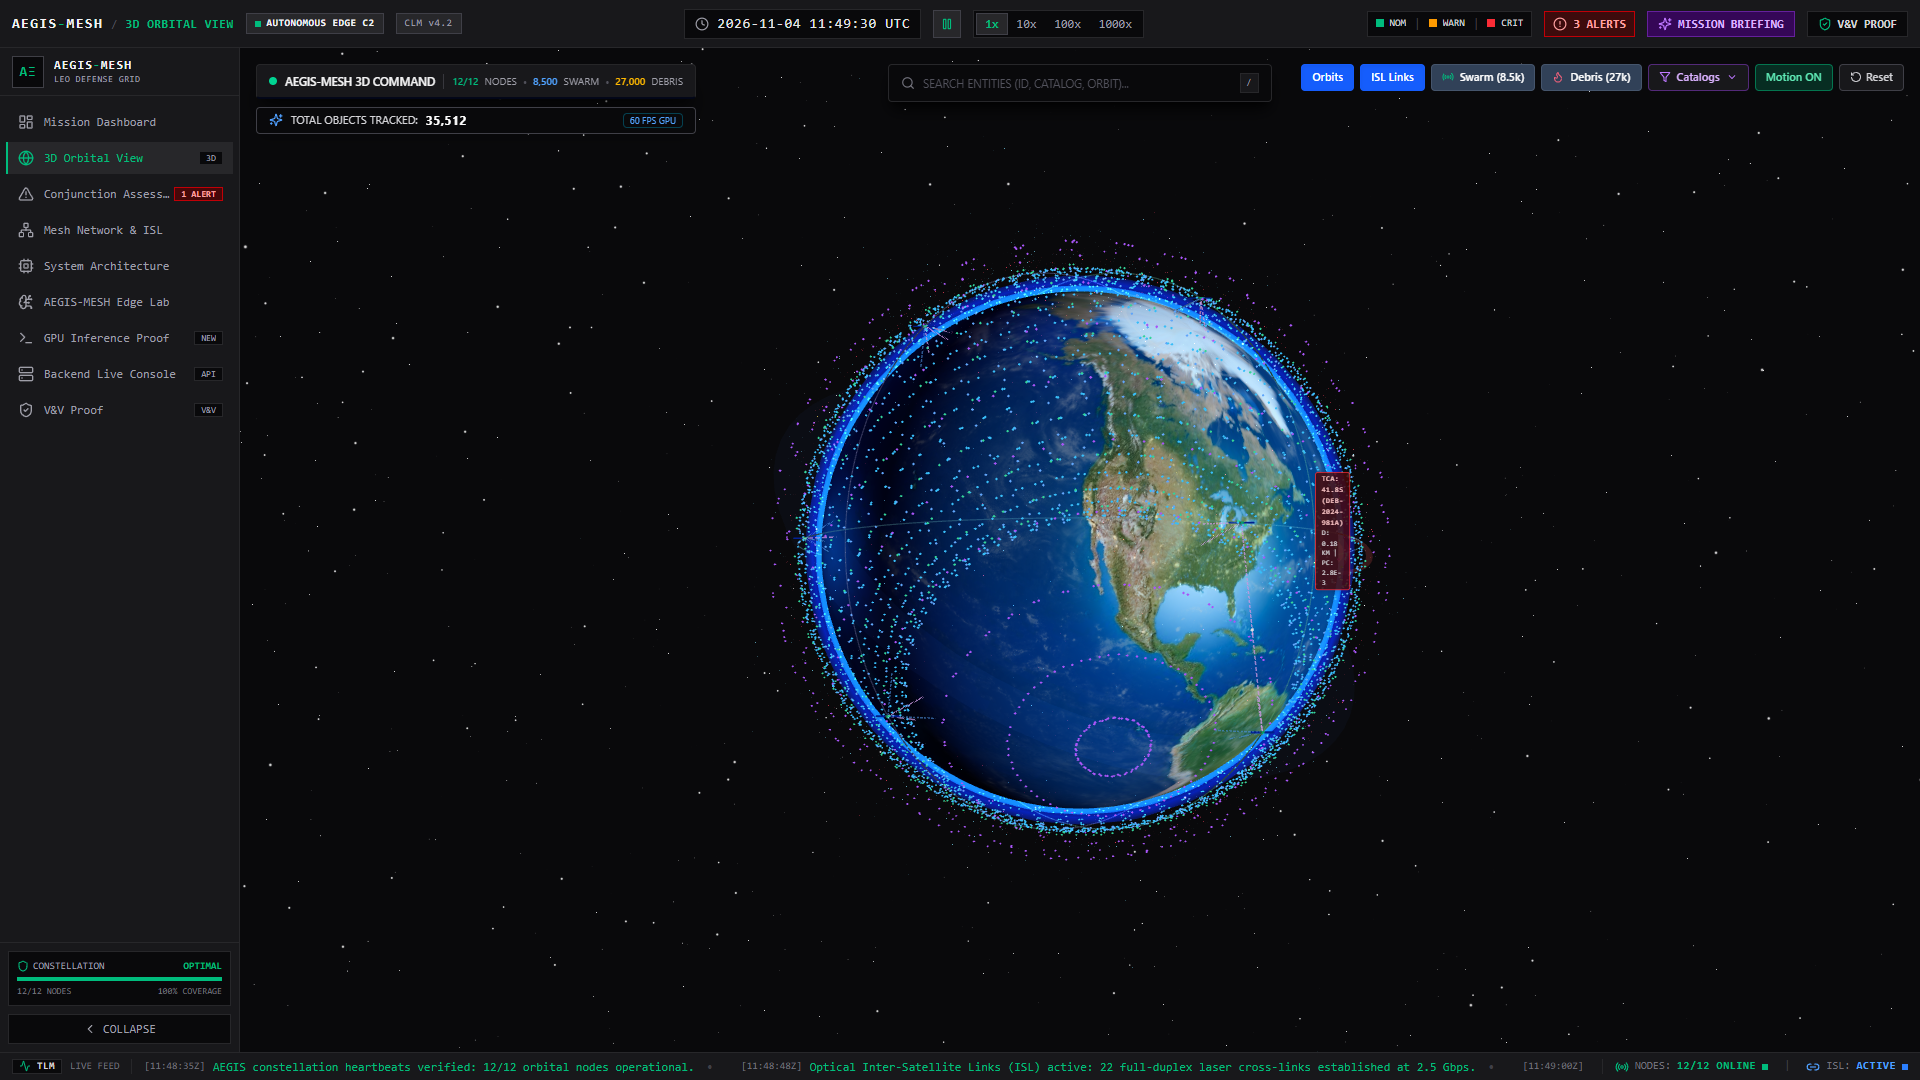
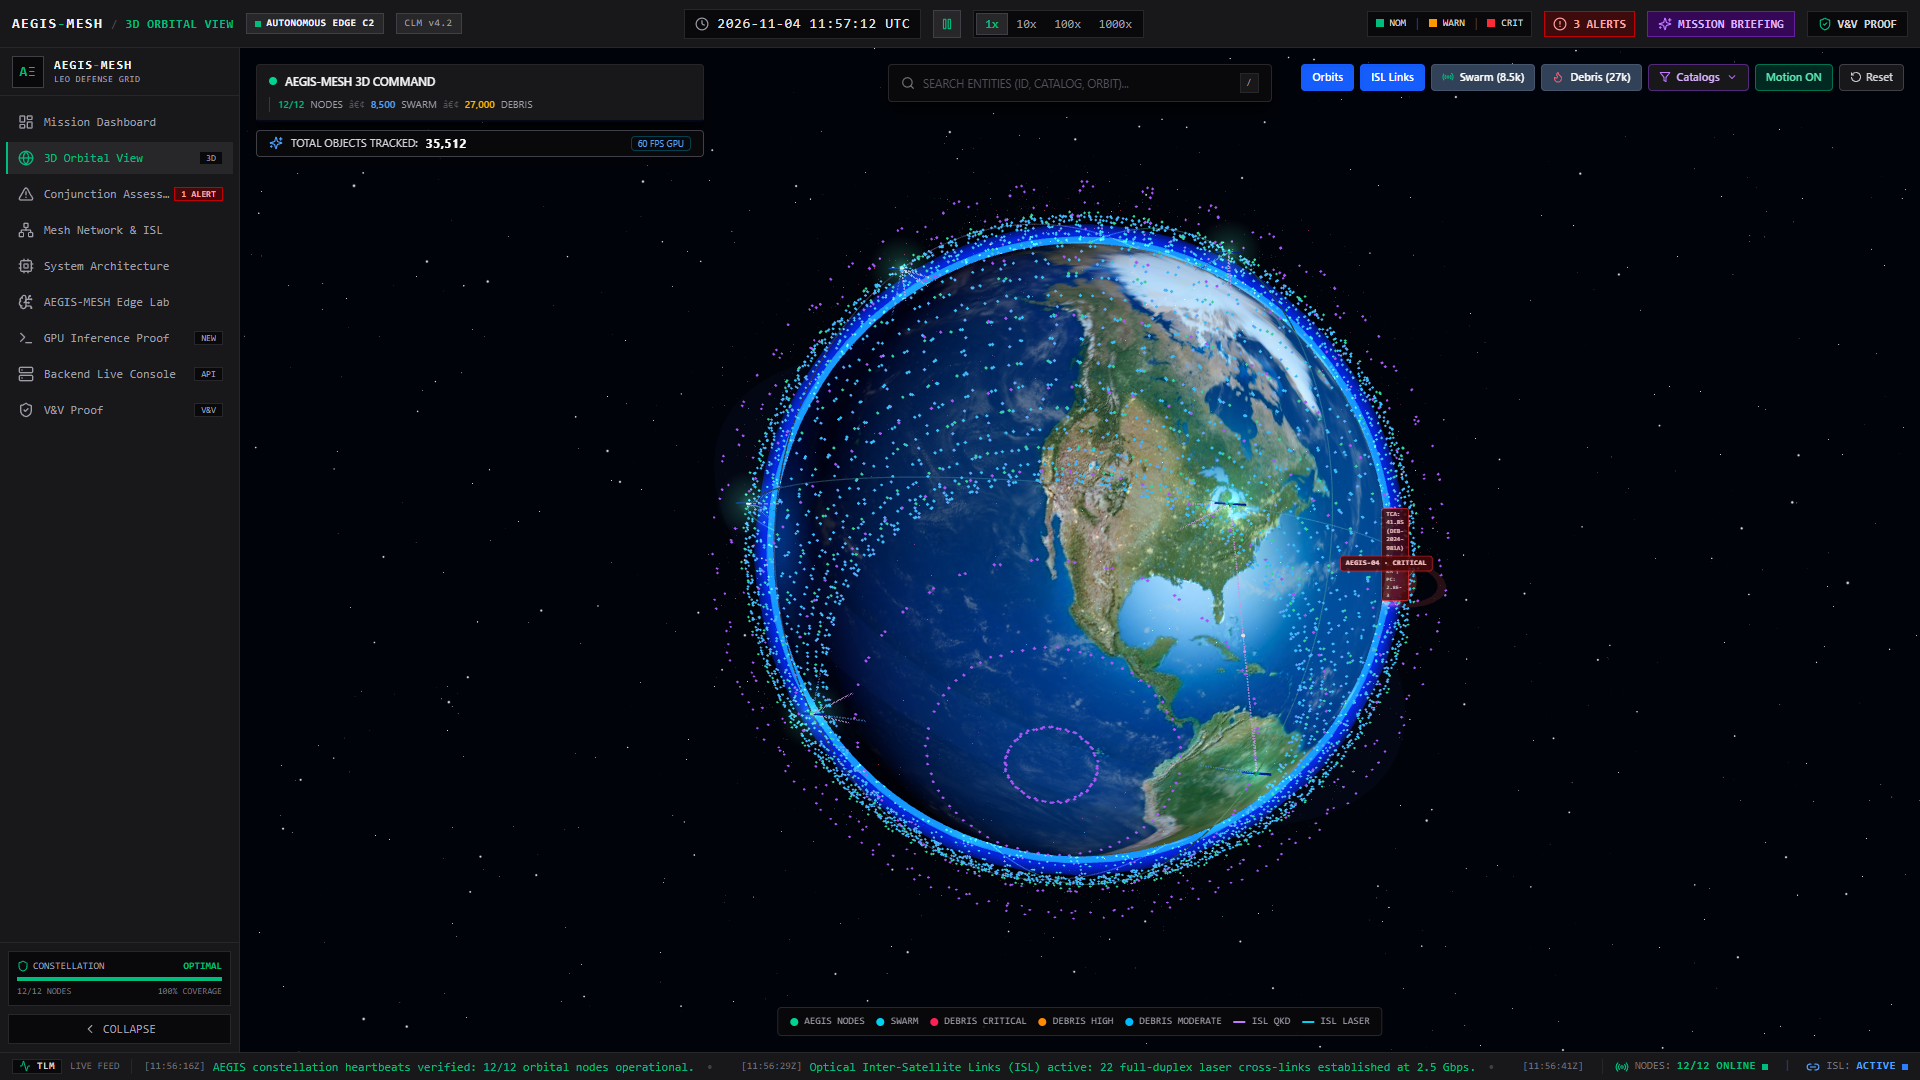
Polish 3D orbital view: node halos, sun glow, cinematic camera, legend

diff --git a/src/components/three/OrbitalScene.tsx b/src/components/three/OrbitalScene.tsx
@@ -1,6 +1,7 @@
 import React, { useMemo, useState, useRef, useCallback } from 'react';
 import { Canvas, useFrame } from '@react-three/fiber';
 import { OrbitControls, Stars } from '@react-three/drei';
+import * as THREE from 'three';
 import type { OrbitControls as OrbitControlsImpl } from 'three-stdlib';
 import {
   Layers,
@@ -129,7 +130,7 @@ const DEBRIS_CATALOG_OPTIONS = [
     count: 3,
     color: '#f97316',
     dangerLevel: 'HIGH',
-    alt: '485 km (82.6°)',
+    alt: '485 km (82.6Â°)',
   },
   {
     id: 'fengyun-1c',
@@ -137,7 +138,7 @@ const DEBRIS_CATALOG_OPTIONS = [
     count: 1984,
     color: '#ff3355',
     dangerLevel: 'CRITICAL',
-    alt: '865 km (98.6°)',
+    alt: '865 km (98.6Â°)',
   },
   {
     id: 'iridium-33',
@@ -145,7 +146,7 @@ const DEBRIS_CATALOG_OPTIONS = [
     count: 110,
     color: '#fbbf24',
     dangerLevel: 'HIGH',
-    alt: '790 km (86.4°)',
+    alt: '790 km (86.4Â°)',
   },
   {
     id: 'cosmos-2251',
@@ -153,7 +154,7 @@ const DEBRIS_CATALOG_OPTIONS = [
     count: 586,
     color: '#fb923c',
     dangerLevel: 'HIGH',
-    alt: '790 km (74.0°)',
+    alt: '790 km (74.0Â°)',
   },
   {
     id: 'sl-16',
@@ -161,7 +162,7 @@ const DEBRIS_CATALOG_OPTIONS = [
     count: 294,
     color: '#d946ef',
     dangerLevel: 'ELEVATED',
-    alt: '600-950 km (71.0°)',
+    alt: '600-950 km (71.0Â°)',
   },
   {
     id: 'leo-general',
@@ -172,6 +173,44 @@ const DEBRIS_CATALOG_OPTIONS = [
     alt: '350-1400 km',
   },
 ];
+
+function createSunGlowTexture(): THREE.Texture | null {
+  if (typeof document === 'undefined') return null;
+  const canvas = document.createElement('canvas');
+  canvas.width = 128;
+  canvas.height = 128;
+  const ctx = canvas.getContext('2d');
+  if (!ctx) return null;
+  const g = ctx.createRadialGradient(64, 64, 0, 64, 64, 64);
+  g.addColorStop(0, 'rgba(255, 244, 214, 1)');
+  g.addColorStop(0.25, 'rgba(255, 224, 168, 0.55)');
+  g.addColorStop(0.6, 'rgba(255, 196, 110, 0.16)');
+  g.addColorStop(1, 'rgba(255, 180, 90, 0)');
+  ctx.fillStyle = g;
+  ctx.fillRect(0, 0, 128, 128);
+  const tex = new THREE.CanvasTexture(canvas);
+  tex.colorSpace = THREE.SRGBColorSpace;
+  tex.generateMipmaps = false;
+  tex.minFilter = THREE.LinearFilter;
+  return tex;
+}
+
+const SunGlow: React.FC = () => {
+  const tex = useMemo(() => createSunGlowTexture(), []);
+  if (!tex) return null;
+  return (
+    <sprite position={[88, 40, 68]} scale={[54, 54, 1]}>
+      <spriteMaterial
+        map={tex}
+        color="#ffe9c4"
+        transparent
+        opacity={0.5}
+        blending={THREE.AdditiveBlending}
+        depthWrite={false}
+      />
+    </sprite>
+  );
+};
 
 // Inner 3D Scene executing useFrame and rendering all orbital assets
 const SceneContent: React.FC<{
@@ -334,6 +373,7 @@ const SceneContent: React.FC<{
     <>
       {/* Central Realistic Earth */}
       <Earth />
+      <SunGlow />
 
       {/* Unique Orbital Plane Tracks */}
       {showOrbits &&
@@ -353,6 +393,8 @@ const SceneContent: React.FC<{
       {/* Upgraded 20,000+ Particle Debris Field with dynamic catalog filtering */}
       <DebrisField
         activeCatalogs={activeCatalogs}
+        pointSize={0.048}
+        opacity={0.62}
         isPropagating={isPropagating}
         visible={showDebris}
         onParticleHover={onParticleHover}
@@ -396,6 +438,7 @@ const SceneContent: React.FC<{
             status={sat.status}
             position={pos}
             isSelected={isSel}
+            showLabel={sat.id === 'AEGIS-04'}
             orbitalElements={sat.elements}
             hardware={sat.hardware}
             health={sat.health}
@@ -444,6 +487,7 @@ export const OrbitalScene: React.FC<OrbitalSceneProps> = ({
   const [showSwarm, setShowSwarm] = useState(true);
   const [showLinks, setShowLinks] = useState(true);
   const [isPropagating, setIsPropagating] = useState(true);
+  const [autoRotate, setAutoRotate] = useState(true);
   const [isCatalogMenuOpen, setIsCatalogMenuOpen] = useState(false);
   const [debrisSearchQuery, setDebrisSearchQuery] = useState('');
 
@@ -520,6 +564,7 @@ export const OrbitalScene: React.FC<OrbitalSceneProps> = ({
   const handleResetCamera = useCallback(() => {
     if (controlsRef.current) {
       controlsRef.current.reset();
+      setAutoRotate(true);
     }
   }, []);
 
@@ -539,12 +584,12 @@ export const OrbitalScene: React.FC<OrbitalSceneProps> = ({
 
           <div className="flex items-center gap-1.5 border-l border-zinc-700/80 pl-2 text-[10px] font-sans text-zinc-400">
             <span className="text-emerald-500 font-semibold">12/12</span> NODES
-            <span className="text-zinc-600">•</span>
+            <span className="text-zinc-600">â€¢</span>
             <span className="text-blue-400 font-semibold">
               {objectMetrics.swarmCount.toLocaleString()}
             </span>{' '}
             SWARM
-            <span className="text-zinc-600">•</span>
+            <span className="text-zinc-600">â€¢</span>
             <span className="text-amber-400 font-semibold">
               {objectMetrics.debrisCount.toLocaleString()}
             </span>{' '}
@@ -781,7 +826,7 @@ export const OrbitalScene: React.FC<OrbitalSceneProps> = ({
               onClick={() => selectSatellite(null)}
               className="text-zinc-400 hover:text-zinc-100 px-1 font-mono text-sm"
             >
-              ✕
+              âœ•
             </button>
           </div>
 
@@ -795,7 +840,7 @@ export const OrbitalScene: React.FC<OrbitalSceneProps> = ({
             <div className="bg-zinc-950 p-1.5 rounded border border-zinc-800">
               <div className="text-zinc-400 text-[10px]">INCLINATION</div>
               <div className="text-blue-300 font-semibold">
-                {selectedSatData.orbitalElements.inclination}°
+                {selectedSatData.orbitalElements.inclination}Â°
               </div>
             </div>
             <div className="bg-zinc-950 p-1.5 rounded border border-zinc-800">
@@ -841,15 +886,15 @@ export const OrbitalScene: React.FC<OrbitalSceneProps> = ({
                   <span>
                     THREAT: <span className="text-rose-400 font-bold">{hoveredDebris.dangerLevel}</span>
                   </span>
-                  <span>•</span>
+                  <span>â€¢</span>
                   <span>
                     ALT: <span className="text-blue-300 font-semibold">{hoveredDebris.altitudeKm} km</span>
                   </span>
-                  <span>•</span>
+                  <span>â€¢</span>
                   <span>
-                    INC: <span className="text-zinc-200 font-semibold">{hoveredDebris.inclinationDeg}°</span>
+                    INC: <span className="text-zinc-200 font-semibold">{hoveredDebris.inclinationDeg}Â°</span>
                   </span>
-                  <span>•</span>
+                  <span>â€¢</span>
                   <span>
                     VEL: <span className="text-emerald-500 font-semibold">{hoveredDebris.velocityKmS} km/s</span>
                   </span>
@@ -865,7 +910,7 @@ export const OrbitalScene: React.FC<OrbitalSceneProps> = ({
                 </div>
                 <div className="text-[10px] text-zinc-300 flex items-center gap-2 mt-0.5">
                   <span>{hoveredSwarmSat.constellation || 'Mega-Constellation'}</span>
-                  <span>•</span>
+                  <span>â€¢</span>
                   <span>Alt: {hoveredSwarmSat.altitudeKm ?? 550} km</span>
                 </div>
               </div>
@@ -874,11 +919,26 @@ export const OrbitalScene: React.FC<OrbitalSceneProps> = ({
         </div>
       )}
 
+      {/* Scene Legend */}
+      <div className="absolute bottom-4 left-1/2 -translate-x-1/2 z-10 hidden lg:flex items-center gap-3 px-3 py-1.5 rounded-sm bg-zinc-950/85 border border-zinc-800 text-[10px] font-mono text-zinc-400 pointer-events-none">
+        <span className="flex items-center gap-1.5"><span className="w-2 h-2 rounded-full bg-emerald-400" /> AEGIS NODES</span>
+        <span className="flex items-center gap-1.5"><span className="w-2 h-2 rounded-full bg-cyan-400" /> SWARM</span>
+        <span className="flex items-center gap-1.5"><span className="w-2 h-2 rounded-full bg-rose-500" /> DEBRIS CRITICAL</span>
+        <span className="flex items-center gap-1.5"><span className="w-2 h-2 rounded-full bg-orange-400" /> DEBRIS HIGH</span>
+        <span className="flex items-center gap-1.5"><span className="w-2 h-2 rounded-full bg-sky-400" /> DEBRIS MODERATE</span>
+        <span className="flex items-center gap-1.5"><span className="w-3 h-0.5 bg-purple-400 inline-block" /> ISL QKD</span>
+        <span className="flex items-center gap-1.5"><span className="w-3 h-0.5 bg-cyan-400 inline-block" /> ISL LASER</span>
+      </div>
+
       {/* Main 3D React Three Fiber Canvas */}
       <Canvas
-        camera={{ position: [0, 16, 26], fov: 45, near: 0.1, far: 2000 }}
+        camera={{ position: [13, 13, 21], fov: 42, near: 0.1, far: 2000 }}
+        gl={{ antialias: true }}
+        dpr={[1, 1.75]}
         className="w-full h-full"
       >
+        <color attach="background" args={['#01030a']} />
+
         {/* Deep space ambient lighting for realistic contrast */}
         <ambientLight intensity={0.14} color="#091428" />
 
@@ -931,7 +991,9 @@ export const OrbitalScene: React.FC<OrbitalSceneProps> = ({
           ref={controlsRef}
           enableDamping
           dampingFactor={0.06}
-          autoRotate={false}
+          autoRotate={autoRotate}
+          autoRotateSpeed={0.45}
+          onStart={() => setAutoRotate(false)}
           minDistance={7.5}
           maxDistance={90}
         />

diff --git a/src/components/three/SatelliteNode.tsx b/src/components/three/SatelliteNode.tsx
@@ -10,6 +10,7 @@ export interface SatelliteNodeProps {
   id: string;
   name?: string;
   isSelected?: boolean;
+  showLabel?: boolean;
   onClick?: () => void;
   orbitalElements?: {
     semiMajorAxis: number;
@@ -31,12 +32,33 @@ export interface SatelliteNodeProps {
   };
 }
 
+function createNodeGlowTexture(): THREE.CanvasTexture | null {
+  if (typeof document === 'undefined') return null;
+  const canvas = document.createElement('canvas');
+  canvas.width = 64;
+  canvas.height = 64;
+  const ctx = canvas.getContext('2d');
+  if (!ctx) return null;
+  const g = ctx.createRadialGradient(32, 32, 0, 32, 32, 32);
+  g.addColorStop(0, 'rgba(255,255,255,0.9)');
+  g.addColorStop(0.35, 'rgba(255,255,255,0.35)');
+  g.addColorStop(1, 'rgba(255,255,255,0)');
+  ctx.fillStyle = g;
+  ctx.fillRect(0, 0, 64, 64);
+  const tex = new THREE.CanvasTexture(canvas);
+  tex.colorSpace = THREE.SRGBColorSpace;
+  tex.generateMipmaps = false;
+  tex.minFilter = THREE.LinearFilter;
+  return tex;
+}
+
 export const SatelliteNode: React.FC<SatelliteNodeProps> = ({
   position,
   status,
   id,
   name,
   isSelected = false,
+  showLabel = false,
   onClick,
   orbitalElements,
   hardware,
@@ -66,6 +88,7 @@ export const SatelliteNode: React.FC<SatelliteNodeProps> = ({
   };
 
   const nodeColor = getColor(status);
+  const glowTexture = useMemo(() => createNodeGlowTexture(), []);
   const isManeuvering = status.toLowerCase() === 'maneuvering';
 
   // Orbital Calculations
@@ -152,6 +175,20 @@ export const SatelliteNode: React.FC<SatelliteNodeProps> = ({
         <sphereGeometry args={[0.22, 12, 12]} />
         <meshBasicMaterial transparent opacity={0} depthWrite={false} />
       </mesh>
+
+      {/* Always-on status halo so nodes read at globe scale */}
+      {glowTexture && (
+        <sprite scale={[1.3, 1.3, 1]}>
+          <spriteMaterial
+            map={glowTexture}
+            color={nodeColor}
+            transparent
+            opacity={isSelected ? 0.9 : status.toLowerCase() === 'critical' ? 0.85 : 0.55}
+            blending={THREE.AdditiveBlending}
+            depthWrite={false}
+          />
+        </sprite>
+      )}
 
       {/* Rotating Satellite Bus Group (Bus + Antenna Dish + Optics) */}
       <group ref={busRef}>
@@ -302,6 +339,20 @@ export const SatelliteNode: React.FC<SatelliteNodeProps> = ({
             depthWrite={false}
           />
         </mesh>
+      )}
+
+      {/* Permanent callsign tag for priority nodes */}
+      {showLabel && !hovered && !isSelected && (
+        <Html
+          position={[0, 0.58, 0]}
+          center
+          distanceFactor={18}
+          style={{ pointerEvents: 'none', userSelect: 'none' }}
+        >
+          <div className="px-1.5 py-0.5 rounded-sm bg-red-950/85 border border-red-500/70 text-[9px] font-mono font-bold text-red-200 tracking-wider whitespace-nowrap">
+            {id} · CRITICAL
+          </div>
+        </Html>
       )}
 
       {/* Rich Aerospace Dark HUD Telemetry Tooltip on Hover or Selection */}

diff --git a/src/components/three/Earth.tsx b/src/components/three/Earth.tsx
@@ -53,7 +53,7 @@ const EarthInner: React.FC = () => {
       fragmentShader: atmosphereFragmentShader,
       uniforms: {
         glowColor: { value: new THREE.Color('#4db8ff') },
-        intensity: { value: 1.4 },
+        intensity: { value: 1.65 },
       },
       side: THREE.BackSide,
       blending: THREE.AdditiveBlending,
@@ -69,7 +69,7 @@ const EarthInner: React.FC = () => {
       fragmentShader: atmosphereFragmentShader,
       uniforms: {
         glowColor: { value: new THREE.Color('#1a6fff') },
-        intensity: { value: 0.7 },
+        intensity: { value: 0.85 },
       },
       side: THREE.BackSide,
       blending: THREE.AdditiveBlending,
@@ -134,7 +134,7 @@ const EarthInner: React.FC = () => {
             map={cloudsMap}
             alphaMap={cloudsMap}
             transparent
-            opacity={0.42}
+            opacity={0.5}
             depthWrite={false}
             roughness={1.0}
             metalness={0}

diff --git a/src/components/three/ConjunctionEvent.tsx b/src/components/three/ConjunctionEvent.tsx
@@ -145,7 +145,7 @@ export const ConjunctionEvent: React.FC<ConjunctionEventProps> = ({
         <Html
           position={[0, baseRadius + 0.15, 0]}
           center
-          distanceFactor={20}
+          distanceFactor={13}
           style={{ pointerEvents: 'none', userSelect: 'none' }}
         >
           <div className="flex flex-col items-center">
